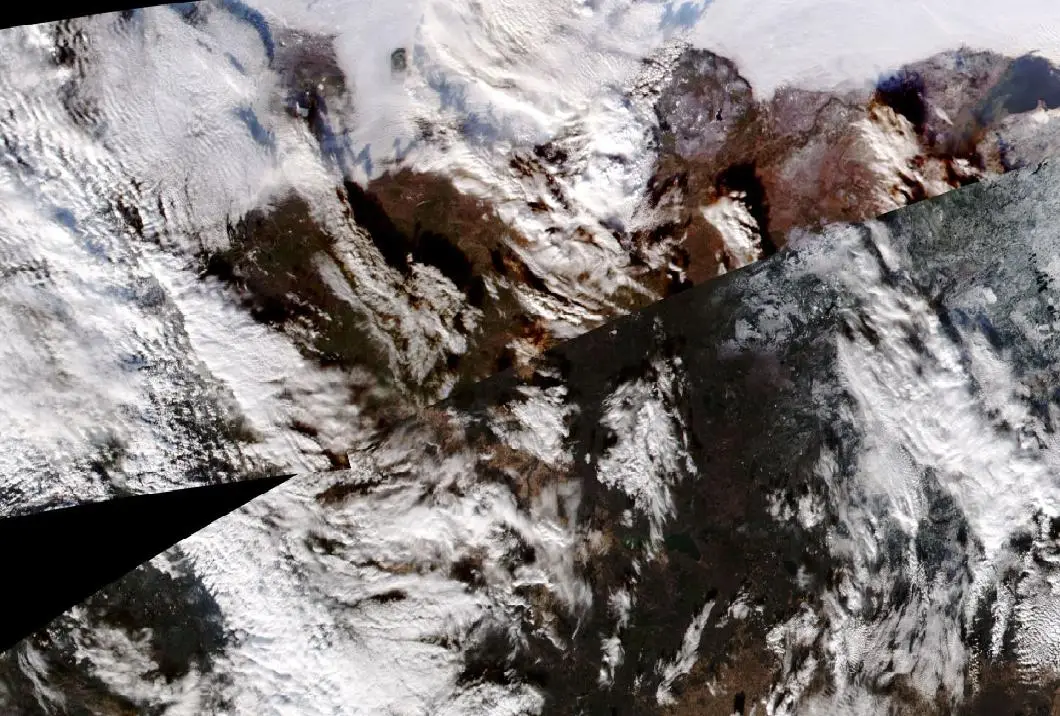
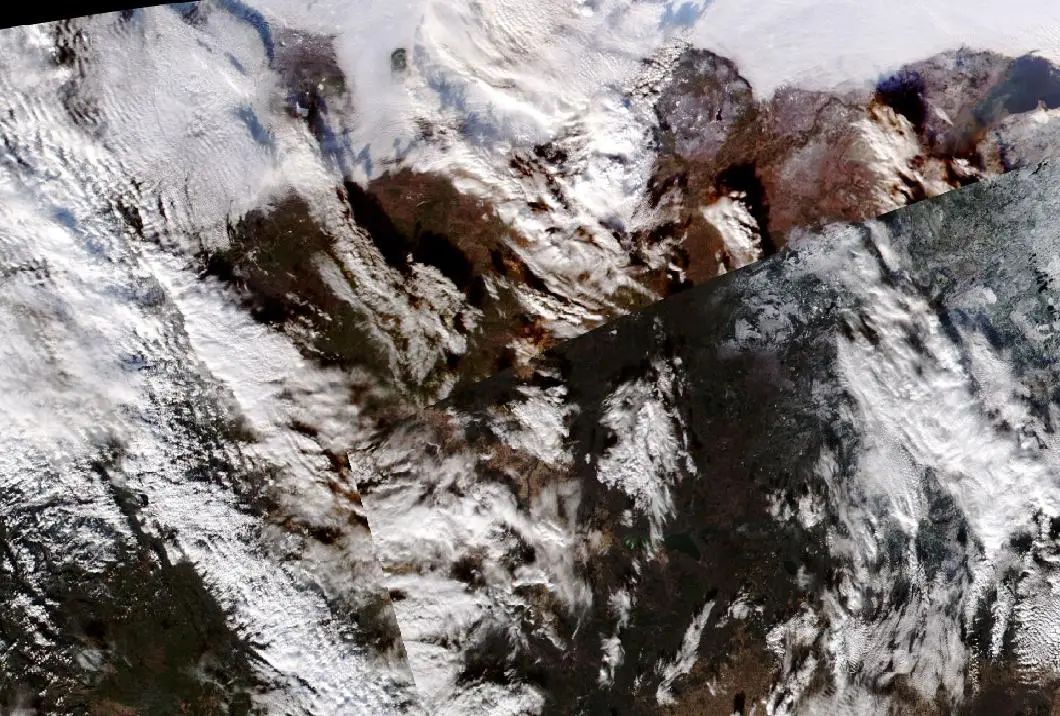
Publish the 2027 watch ranking in tonight.json, validated and documented; republish Tonight (spec 07 task 1)

diff --git a/pipeline/tests/test_tonight.py b/pipeline/tests/test_tonight.py
@@ -8,9 +8,11 @@ from pathlib import Path
 
 import numpy as np
 import pytest
+from hypothesis import given
+from hypothesis import strategies as st
 from PIL import Image
 
-from pipeline.build import BuildError, assemble_tonight, recurring_cells_for
+from pipeline.build import WATCH_W_LATE, WATCH_W_SIZE, BuildError, assemble_tonight, recurring_cells_for, watch_order
 from pipeline.config import GRID_H, GRID_W
 from pipeline.keyframe import pick, score, to_webp
 from pipeline.points import Point, csv_cells, decode_cell, encode_cell, parse, recurring_cells, recurring_from_keys
@@ -227,3 +229,39 @@ def test_tonight_document_passes_the_validator(tmp_path: Path) -> None:
                          None, ["NASA FIRMS test"])
     out = publish_json(t.doc, tmp_path / "tonight.json", "tonight")
     assert json.loads(out.read_text(encoding="utf-8"))["frame_date"] == (TODAY - timedelta(days=1)).isoformat()
+
+
+# --- watch ranking (spec 07 Requirement 2) -----------------------------------------------------
+
+row = st.tuples(st.integers(1, 5000), st.integers(0, 300)).map(lambda t: [t[0], 500, 300, "2026-11-01", t[1], 0, 10])
+
+
+def _score(rows, i):
+    ms, ml = max(r[0] for r in rows), max(r[4] for r in rows)
+    return WATCH_W_SIZE * rows[i][0] / ms + (WATCH_W_LATE * rows[i][4] / ml if ml > 0 else 0.0)
+
+
+@given(st.lists(row, min_size=1, max_size=24))
+def test_watch_order_is_a_ranked_permutation(rows) -> None:
+    """Property 1: a permutation, scores never increase, ties keep (larger scar, lower index)."""
+    order = watch_order(rows)
+    assert sorted(order) == list(range(len(rows)))
+    for a, b in zip(order, order[1:]):
+        sa, sb = _score(rows, a), _score(rows, b)
+        assert sa >= sb
+        if sa == sb:
+            assert (rows[a][0], -a) >= (rows[b][0], -b)
+
+
+def test_watch_order_examples() -> None:
+    rows = [[100, 0, 0, "d", 0, 0, 0], [50, 0, 0, "d", 120, 0, 0], [100, 0, 0, "d", 0, 0, 0]]
+    assert watch_order(rows) == [1, 0, 2]  # late heat outweighs size; equal scars keep their order
+    assert watch_order([[10, 0, 0, "d", 0, 0, 0], [30, 0, 0, "d", 0, 0, 0]]) == [1, 0]  # no late heat: by size
+    assert watch_order([]) == []
+
+
+def test_assemble_tonight_publishes_the_watch_ranking() -> None:
+    a, b, late = season_points()
+    t = assemble_tonight(TODAY, AS_OF, a + b + late, set(), snow_days([[], []]), (TODAY - timedelta(days=1), b"j"),
+                         None, ["test"])
+    assert t.doc["watch"] == watch_order(t.doc["g"])

diff --git a/pipeline/build.py b/pipeline/build.py
@@ -197,6 +197,26 @@ class TonightBuild:
     recurring: set[Cell]
 
 
+WATCH_W_SIZE = 0.45  # board RV_TONIGHT weights (Main.dc.html L655–659), normalised by the night's own maxima
+WATCH_W_LATE = 0.55
+
+
+def watch_order(rows: Sequence[Sequence]) -> list[int]:
+    """The 2027 watch ranking (spec 07 Requirement 2.1): indices of `rows` (published Tonight `g` rows), best first.
+
+    score = 0.45 * size/max size + 0.55 * late hits/max late hits (0 when no scar has late hits). Ties go to the
+    larger scar, then the lower index. A guide for where to look in spring, not a forecast."""
+    if not rows:
+        return []
+    max_size = max(r[0] for r in rows)
+    max_late = max(r[4] for r in rows)
+
+    def score(r) -> float:
+        return WATCH_W_SIZE * r[0] / max_size + (WATCH_W_LATE * r[4] / max_late if max_late > 0 else 0.0)
+
+    return sorted(range(len(rows)), key=lambda i: (-score(rows[i]), -rows[i][0], i))
+
+
 def _late_window(today: date) -> tuple[date, date]:
     """The 14 days ending today; NRT data exists only for completed days, so today itself is empty."""
     return today - timedelta(days=LATE_HITS_DAYS - 1), today
@@ -251,6 +271,7 @@ def assemble_tonight(
         raise BuildError("Tonight: no usable true-colour frame in the last 5 days and no previous frame to keep")
     doc = {
         "g": rows,
+        "watch": watch_order(rows),
         "r": [[grid_int(c.x, GRID_W), grid_int(c.y, GRID_H), c.n_points] for c in clusters],
         "static": len(recurring),
         "as_of": as_of,

diff --git a/pipeline/tests/test_build.py b/pipeline/tests/test_build.py
@@ -146,7 +146,9 @@ def test_property_9_rows_match_the_engine(melts, raw) -> None:
     try:
         b = assemble_season(YEAR, scars, pts, frames)
     except BuildError:
-        assert all(m is None for m in melts)
+        # The build fails only when no grave gets a melt day. A frame melt on day m is detected only if the
+        # 7-day window from m holds >= 3 valid days inside the season (days 0..102), i.e. m <= 100.
+        assert all(m is None or 103 - m < 3 for m in melts)
         return
     for row, r in zip(b.block["g"], b.result.graves):
         assert row[3] == (-1 if r.melt_day is None else r.melt_day)

diff --git a/.kiro/specs/tonight-live/tasks.md b/.kiro/specs/tonight-live/tasks.md
@@ -12,12 +12,14 @@ These tasks run in four groups:
 Task 1 needs a live `tonight` run, which uses the FIRMS key. Task 8 needs steps from the user: creating the Vercel project, adding three repository secrets, and pushing.
 
 ## Tasks
-- [ ] 1. Publish the watch ranking
-- [ ] 1.1 `pipeline/build.py`: `watch_order(rows)` and `watch` in `assemble_tonight`; `scripts/validate-data.mjs`: the permutation check; `docs/method.md`: the field, the formula, "a guide, not a forecast"
+- [x] 1. Publish the watch ranking
+- [x] 1.1 `pipeline/build.py`: `watch_order(rows)` and `watch` in `assemble_tonight`; `scripts/validate-data.mjs`: the permutation check; `docs/method.md`: the field, the formula, "a guide, not a forecast"
   - _Requirements: 2.1, 2.2_
-- [ ] 1.2 Tests: pytest + Hypothesis for Property 1; node tests for the validator (accept, duplicate, missing)
+- [x] 1.2 Tests: pytest + Hypothesis for Property 1; node tests for the validator (accept, duplicate, missing)
+  - Also fixed a wrong assumption in spec 02's Property 9 test, found by Hypothesis: a melt on day 101 or 102 has fewer than 3 valid days left in its window, so it is never detected.
   - _Requirements: 2.1, 2.2_
-- [ ] 1.3 Run `uv run --python 3.12 python -m pipeline tonight` to republish `tonight.json` with `watch` (fresh data). Report the new `as_of`, warm count and top three to the user
+- [x] 1.3 Run `uv run --python 3.12 python -m pipeline tonight` to republish `tonight.json` with `watch` (fresh data). Report the new `as_of`, warm count and top three to the user
+  - as_of 2026-11-20T12:31:07Z, points through Nov 19, frame Nov 16; 9 still warm, 10 buried; `watch` opens G-24, G-01, G-02; still-warm top three G-24, G-02, G-16.
   - _Requirements: 2.1_
 
 - [ ] 2. Tonight, live

diff --git a/docs/method.md b/docs/method.md
@@ -97,10 +97,17 @@ meta: { generated_at, method, proximity_km, sources: [...], credit }
 ### `public/data/tonight.json` (nightly; spec `tonight-live` builds the view)
 ```
 { g: [[size_px, cx, cy, "last_burn YYYY-MM-DD", late_hits_14d, [x, y]|0, snow_pct_now|-1], ...≤24],
+  watch: [i, ...],                         // indices of g, the 2027 watch ranking, best first
   r: [[x, y, point_count], ...≤30],        // last-7-day clusters, flares removed
   static: int,                             // recurring cells removed from NRT points
   as_of, frame_date, points_through, sources: [...], credit }
 ```
+
+**Watch ranking (`watch`).** It orders Tonight's scars by size and late heat. It is a guide for where to look in spring, not a forecast.
+- score = 0.45 × size_px / largest size_px + 0.55 × late_hits_14d / largest late_hits_14d. The late-heat term is 0 when no scar has late heat.
+- Ties go to the larger scar, then to the lower index.
+- The weights are the design board's, normalised by the night's own maxima instead of the research constants.
+- The validator checks that `watch` is a permutation of the grave indices.
 
 ### `data/seasons.json` (research, frozen)
 This file uses the same `g` and `f` rows without `chance`, `zombie` or `meta`. It also has `t` (Tonight, same rows as `tonight.json` `g` and `r`) and `static: 320`. Its snow series is rounded to whole percent, while its melt days were computed on unrounded fractions. Recomputing melt from the series matches 70 of 72 graves. The exceptions are 2024 G-16 (stored 21, recomputed 22) and 2025 G-10 (stored 54, recomputed 59); neither rose, so Risen counts are unaffected.
